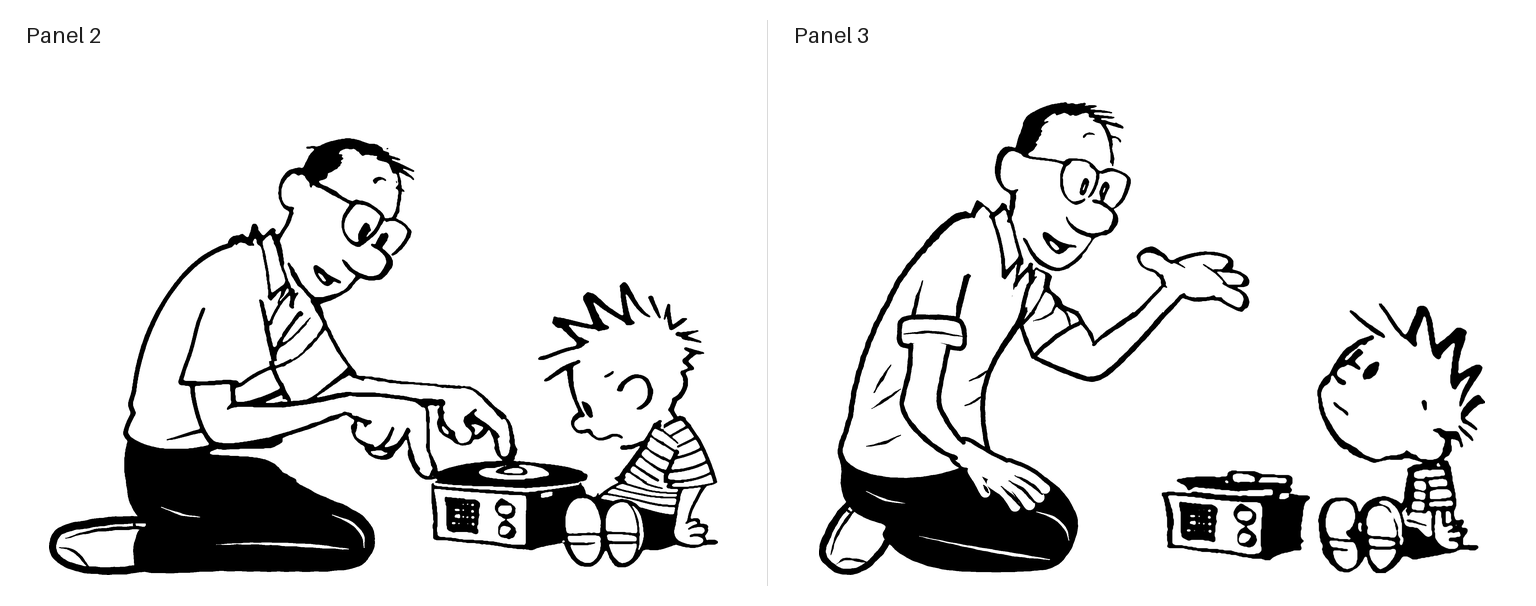
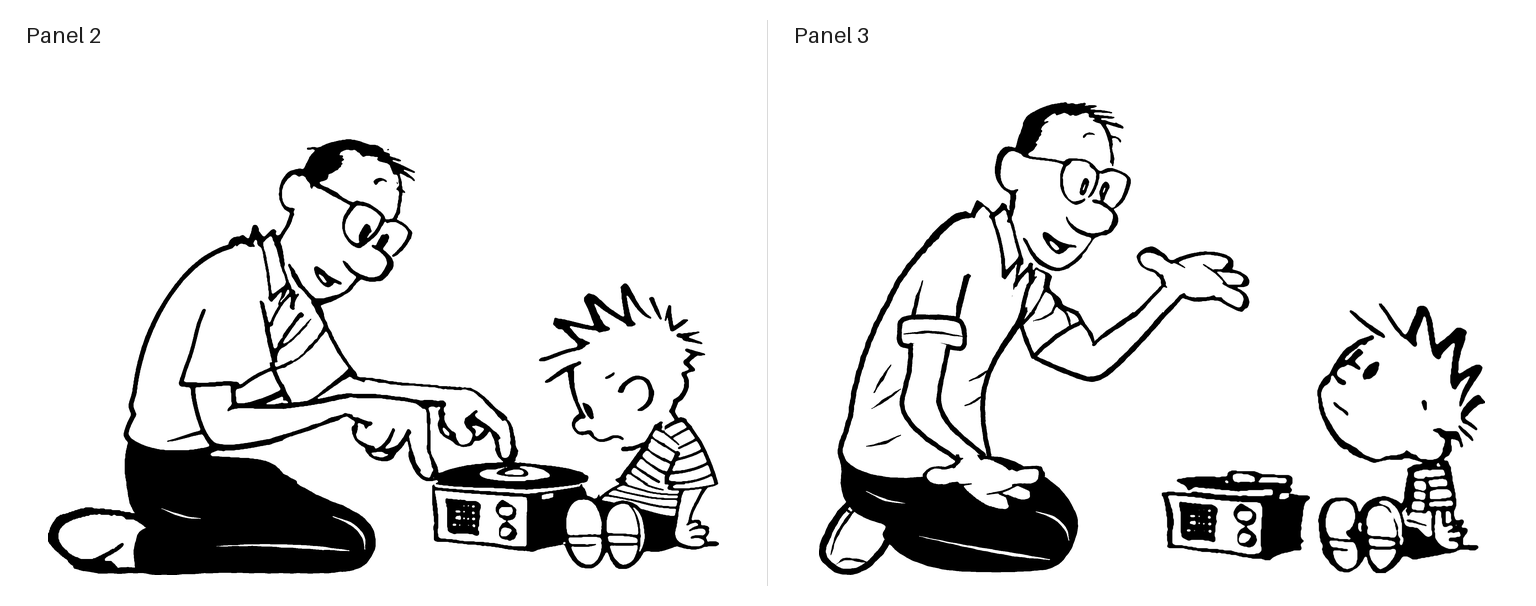
Reuse Watterson's own hand and shoe; fix the gap under Dad's arm
Panel 3's resting hand is now Dad's scanned gesturing hand from the same
panel (a four-fingered cartoon hand: thumb and three fingers), flipped
palm down and tilted onto his thigh, with the drawn forearm joined to
its wrist. Panel 2's trailing shoe is panel 1's planted shoe turned
upside down: toe back on the floor, sole up, heel under the cuff.
Both go through a general transplant() that moves a piece of scanned ink
to a new pose and fills its silhouette.

The earlier elbow repair had thickened the line under Dad's arm in
panel 2 into a wedge of black that read as stray trouser above a white
gap; thin_underarm() brings it back to the scan's weight.

diff --git a/panels.html b/panels.html
@@ -7,13 +7,13 @@
 <section id="panel-1"><h2>Panel 1</h2><p>Original central artwork with the existing completed left extension.</p>
 <p class="details">2834 × 2066 pixels · original-crop agreement: 100% · <a href="assets/full-panels/panel1.png?v=b03ae498a9" download="panel1.png">Download PNG</a> · <a href="assets/full-panels/panel1.png?v=b03ae498a9" target="_blank" rel="noopener">Open full size</a></p>
 <label><input class="show-source" type="checkbox"> Show original crop overlay</label>
-<div class="scroll"><div class="stage" style="--native-width:2834px"><img class="complete" src="assets/full-panels/panel1.png?v=b03ae498a9" width="2834" height="2066" alt="Completed comic panel 1 without dialogue" loading="lazy"><img class="source" src="assets/full-panels/original1.png" style="left:14.114326040931546%;top:0.0%;width:57.657021877205366%" width="1634" height="2066" alt="Original crop of panel 1" hidden></div></div></section><section id="panel-2"><h2>Panel 2</h2><p>Dad points to the record, sitting back on his heels. His trousers and trailing shoe are drawn in code (drawn_legs.py) after panel 1. The player uses the grille and knobs from panel 1.</p>
-<p class="details">3182 × 3660 pixels · original-crop agreement: 99.206% · <a href="assets/full-panels/panel2.png?v=0ca58c433f" download="panel2.png">Download PNG</a> · <a href="assets/full-panels/panel2.png?v=0ca58c433f" target="_blank" rel="noopener">Open full size</a></p>
+<div class="scroll"><div class="stage" style="--native-width:2834px"><img class="complete" src="assets/full-panels/panel1.png?v=b03ae498a9" width="2834" height="2066" alt="Completed comic panel 1 without dialogue" loading="lazy"><img class="source" src="assets/full-panels/original1.png" style="left:14.114326040931546%;top:0.0%;width:57.657021877205366%" width="1634" height="2066" alt="Original crop of panel 1" hidden></div></div></section><section id="panel-2"><h2>Panel 2</h2><p>Dad points to the record, sitting back on his heels. His trousers are drawn in code (drawn_legs.py); the trailing shoe is panel 1's planted shoe turned sole up. The player uses the grille and knobs from panel 1.</p>
+<p class="details">3182 × 3660 pixels · original-crop agreement: 99.251% · <a href="assets/full-panels/panel2.png?v=f43d609ae7" download="panel2.png">Download PNG</a> · <a href="assets/full-panels/panel2.png?v=f43d609ae7" target="_blank" rel="noopener">Open full size</a></p>
 <label><input class="show-source" type="checkbox"> Show original crop overlay</label>
-<div class="scroll"><div class="stage" style="--native-width:3182px"><img class="complete" src="assets/full-panels/panel2.png?v=0ca58c433f" width="3182" height="3660" alt="Completed comic panel 2 without dialogue" loading="lazy"><img class="source" src="assets/full-panels/original2.png" style="left:25.1414204902577%;top:0.0%;width:49.7171590194846%" width="1582" height="2060" alt="Original crop of panel 2" hidden></div></div></section><section id="panel-3"><h2>Panel 3</h2><p>Dad rests his hand on his thigh. Everything of him outside the scanned crop (back, shirt, sleeves, arms, hand, trousers and shoe) is drawn in code (drawn_legs.py). Calvin looks up at Dad with his feet still toward the player. His figure and the player come from panel 1, enlarged by 56% for this closer view.</p>
-<p class="details">3174 × 3660 pixels · original-crop agreement: 100% · <a href="assets/full-panels/panel3.png?v=d90685e566" download="panel3.png">Download PNG</a> · <a href="assets/full-panels/panel3.png?v=d90685e566" target="_blank" rel="noopener">Open full size</a></p>
+<div class="scroll"><div class="stage" style="--native-width:3182px"><img class="complete" src="assets/full-panels/panel2.png?v=f43d609ae7" width="3182" height="3660" alt="Completed comic panel 2 without dialogue" loading="lazy"><img class="source" src="assets/full-panels/original2.png" style="left:25.1414204902577%;top:0.0%;width:49.7171590194846%" width="1582" height="2060" alt="Original crop of panel 2" hidden></div></div></section><section id="panel-3"><h2>Panel 3</h2><p>Dad rests his hand on his thigh. Everything of him outside the scanned crop is drawn in code (drawn_legs.py); the resting hand is his scanned gesturing hand turned palm down. Calvin looks up at Dad with his feet still toward the player. His figure and the player come from panel 1, enlarged by 56% for this closer view.</p>
+<p class="details">3174 × 3660 pixels · original-crop agreement: 100% · <a href="assets/full-panels/panel3.png?v=e04a8ea2f8" download="panel3.png">Download PNG</a> · <a href="assets/full-panels/panel3.png?v=e04a8ea2f8" target="_blank" rel="noopener">Open full size</a></p>
 <label><input class="show-source" type="checkbox"> Show original crop overlay</label>
-<div class="scroll"><div class="stage" style="--native-width:3174px"><img class="complete" src="assets/full-panels/panel3.png?v=d90685e566" width="3174" height="3660" alt="Completed comic panel 3 without dialogue" loading="lazy"><img class="source" src="assets/full-panels/original3.png" style="left:25.20478890989288%;top:0.0%;width:49.59042218021424%" width="1574" height="2060" alt="Original crop of panel 3" hidden></div></div></section><section id="panel-4"><h2>Panel 4</h2><p>Original night scene with the existing completed left side of the bed.</p>
+<div class="scroll"><div class="stage" style="--native-width:3174px"><img class="complete" src="assets/full-panels/panel3.png?v=e04a8ea2f8" width="3174" height="3660" alt="Completed comic panel 3 without dialogue" loading="lazy"><img class="source" src="assets/full-panels/original3.png" style="left:25.20478890989288%;top:0.0%;width:49.59042218021424%" width="1574" height="2060" alt="Original crop of panel 3" hidden></div></div></section><section id="panel-4"><h2>Panel 4</h2><p>Original night scene with the existing completed left side of the bed.</p>
 <p class="details">2368 × 2042 pixels · original-crop agreement: 100% · <a href="assets/full-panels/panel4.png?v=4821633204" download="panel4.png">Download PNG</a> · <a href="assets/full-panels/panel4.png?v=4821633204" target="_blank" rel="noopener">Open full size</a></p>
 <label><input class="show-source" type="checkbox"> Show original crop overlay</label>
 <div class="scroll"><div class="stage" style="--native-width:2368px"><img class="complete" src="assets/full-panels/panel4.png?v=4821633204" width="2368" height="2042" alt="Completed comic panel 4 without dialogue" loading="lazy"><img class="source" src="assets/full-panels/original4.png" style="left:16.89189189189189%;top:0.0%;width:66.21621621621621%" width="1568" height="2042" alt="Original crop of panel 4" hidden></div></div></section><footer><p>The source comparisons use the cleaned, smoothed artwork extracted from page 247, with lettering and balloons removed. Panel 4’s signature remains a separate asset. Agreement percentages count every pixel in the original crop, including white background; panel 2 includes the earlier elbow repair. Panel 3 preserves every original ink pixel and directly reuses the original seated Calvin and record player.</p><p><a href="assets/full-panels/verification.json">Pixel comparison results</a> · <a href="assets/full-panels/provenance.json">Artwork sources and rebuild steps</a></p></footer></main>

diff --git a/tools/extensions/reconstruction-v2/drawn_legs.py b/tools/extensions/reconstruction-v2/drawn_legs.py
@@ -3,7 +3,10 @@
 The scan stops at Dad's waist in panel 2 and at his chest in panel 3, so
 everything of him beyond the crops is drawn here rather than generated:
 his legs and shoes in both, and in panel 3 also his back, shirt, sleeves,
-arms and the hand resting on his thigh. The drawing follows the
+arms and the hand resting on his thigh. Where Watterson drew the same
+thing elsewhere in the strip it is reused instead (see transplant): panel
+2's trailing shoe is panel 1's planted shoe turned sole up, and panel 3's
+resting hand is his own gesturing hand turned palm down. The drawing follows the
 strip itself: Dad's trousers are a flat black silhouette with a few thin
 white folds, as in panel 1, and his shoes are panel 1's white shoes with a
 heavy outline, a sole line just inside it and a small heel notch. Sizes come
@@ -54,13 +57,50 @@ def shoe(ink, heel, angle, scale=1.0, flip=False, foreshorten=1.0, width=22):
     ink.stroke(parts['toe_cap'], [3, 11, 10, 2])
 
 
+def thin_underarm(image):
+    """Bring the line under Dad's arm in panel 2 back to the scan's weight.
+
+    The earlier elbow repair (upper-2.png) thickened the arm's underside
+    into a wedge of black that read as a stray bit of trouser above a gap.
+    In the scan the line is about 20px; keep that much of it, from its top.
+    """
+    a = np.asarray(image).copy()
+    for x in range(UNDERARM[0], UNDERARM[1]):
+        column = a[UNDERARM[2]:UNDERARM[3], x] < 128
+        top = np.argmax(column)
+        if not column[top]:
+            continue
+        end = top + np.argmin(column[top:]) if not column[top:].all() else len(column)
+        # Taper into the shirt's hem at the left, where the gap closes.
+        weight = 21 + max(0, 790 - x) * 0.9
+        if end - top > weight and end < len(column):
+            a[UNDERARM[2] + top + int(weight):UNDERARM[2] + end + 2, x] = 255
+    from PIL import Image, ImageFilter
+    # Smooth the new edge as the rest of the art is smoothed.
+    result = Image.fromarray(a)
+    box = (UNDERARM[0] - 4, UNDERARM[2], UNDERARM[1] + 4, UNDERARM[3])
+    edge = result.crop(box).filter(ImageFilter.GaussianBlur(2))
+    edge = edge.point(lambda v: 0 if v < 100 else 255 if v > 156 else int((v - 100) * 255 / 56))
+    result.paste(edge, box[:2])
+    return result
+
+
+# Columns and rows of the underarm line in the panel 2 export.
+UNDERARM = (730, 1000, 1880, 1960)
+PANEL2_SHOE = (300, 2256)
+PANEL2_SHOE_TURN = 180
+PANEL2_SHOE_SCALE = (1.7, 1.7)
+
+
 def panel_two(image):
     """Dad sits on his heels facing right, knee by the record player."""
     w, h = image.size
     ink = Ink((w, h), seed=2)
     # His near foot lies behind him on its upper, toe back on the floor and
     # sole turned up, heel under his seat. The far foot is hidden behind it.
-    shoe(ink, heel=(600, 2270), angle=176, scale=0.86, flip=True)
+    shoe_ink, shoe_shape = panel_one_shoe(PANEL2_SHOE, PANEL2_SHOE_TURN, PANEL2_SHOE_SCALE, (w, h))
+    ink.paint(shoe_shape, 255)
+    ink.paint(shoe_ink, 0)
     # The trousers: seat, thigh and the shin folded under it along the floor,
     # ending in a cuff at the ankle just behind the seat. The first and last
     # three points are the scanned silhouette's edges on the crop's last
@@ -80,7 +120,7 @@ def panel_two(image):
                [2, 8, 2], colour=255, wobble=0.6)
     yy, xx = np.mgrid[:h, :w]
     region = (yy >= 2060) & (xx < 1540)
-    return composite(image, ink.mask(), region)
+    return composite(thin_underarm(image), ink.mask(), region)
 
 
 def outlined(ink, points, width=OUTLINE + 2):
@@ -89,32 +129,101 @@ def outlined(ink, points, width=OUTLINE + 2):
     ink.stroke(points, [width, width * 1.1, width * 0.95, width * 1.15, width], closed=True)
 
 
-HAND = [  # (centre line, width): back of the hand, then far to near fingers
-    ([(965, 2640), (1050, 2690), (1130, 2730)], 96),
-    ([(1150, 2700), (1230, 2735), (1300, 2790)], 40),
-    ([(1135, 2722), (1215, 2762), (1275, 2825)], 44),
-    ([(1110, 2745), (1185, 2790), (1235, 2855)], 46),
-    ([(1080, 2765), (1140, 2810), (1175, 2862)], 44),
-    ([(1000, 2715), (1030, 2765), (1052, 2805)], 42),
-]
+# The scanned gesturing hand in panel 3: its bounding box and the wrist, where
+# the two lines of the forearm reach the thumb (A) and the palm (B).
+SCAN_HAND_BOX = (1585, 1770, 2200, 2080)
+SCAN_WRIST = ((1745, 1950), (1875, 2005))
 
 
-def hand_outline(ink):
-    for points, width in HAND:
-        ink.stroke(points, [width + 2 * OUTLINE], wobble=1.0)
+def transplant(source, keep, closing, pivot, target, angle, flip=False,
+               scale=(1.0, 1.0), axis=0.0, size=None):
+    """Move a piece of Watterson's own ink to a new place and pose.
+
+    `keep` is a polygon around the piece in `source`, `closing` a list of
+    segments that close its outline where `keep` cuts it off (so its inside
+    can be filled). The piece is optionally flipped top to bottom about
+    `pivot`, scaled by `scale` along and across the direction `axis`
+    (degrees), turned by `angle` degrees and moved so `pivot` lands on
+    `target`. Returns its ink and filled silhouette as masks of `size`, and
+    the function mapping source points to their new places.
+    """
+    from PIL import Image, ImageDraw
+    from scipy import ndimage
+    mask = Image.new('L', source.size, 0)
+    ImageDraw.Draw(mask).polygon(keep, fill=255)
+    ink = (np.asarray(source.convert('L')) < 128) & (np.asarray(mask) > 0)
+    closed = Image.fromarray(ink)
+    for segment in closing:
+        ImageDraw.Draw(closed).line(segment, fill=1, width=14)
+    silhouette = ndimage.binary_fill_holes(np.asarray(closed))
+    def turn(degrees):
+        t = np.radians(degrees)
+        return np.array([[np.cos(t), -np.sin(t)], [np.sin(t), np.cos(t)]])
+    stretch = turn(axis) @ np.diag(scale) @ turn(-axis)
+    forward = turn(angle) @ stretch @ np.diag([1, -1 if flip else 1])
+    inverse = np.linalg.inv(forward)
+    pivot, target = np.asarray(pivot, float), np.asarray(target, float)
+    w, h = size
+    xs, ys = zip(*keep)
+    reach = max(np.hypot(x - pivot[0], y - pivot[1]) for x, y in keep) * max(scale) + 10
+    yy, xx = np.mgrid[max(0, int(target[1] - reach)):min(h, int(target[1] + reach)),
+                      max(0, int(target[0] - reach)):min(w, int(target[0] + reach))]
+    src = inverse @ np.stack([xx.ravel() - target[0], yy.ravel() - target[1]]) + pivot[:, None]
+    out = []
+    for layer in (ink, silhouette):
+        sampled = ndimage.map_coordinates(layer.astype(float), [src[1], src[0]], order=1, cval=0)
+        full = np.zeros((h, w), bool)
+        full[yy.ravel(), xx.ravel()] = sampled > 0.5
+        out.append(full)
+    return out[0], out[1], lambda point: tuple(forward @ (np.asarray(point) - pivot) + target)
 
 
-def hand_fill(ink):
-    for points, width in HAND:
-        ink.stroke(points, [width], colour=255, wobble=0.6)
+def resting_hand(image, target, angle):
+    """Panel 3's scanned open hand, turned palm down to rest on the thigh.
+
+    The hand is flipped top to bottom about its wrist, which turns the palm
+    over and puts the thumb on the near side, then tilted by `angle` degrees
+    so the fingers follow the thigh down towards the knee, with the wrist's
+    midpoint at `target`. Returns the hand's ink and silhouette, and where
+    the wrist's thumb and palm ends land.
+    """
+    x0, y0, x1, y1 = SCAN_HAND_BOX
+    a, b = SCAN_WRIST
+    # Only the hand: the side of the wrist away from the elbow.
+    keep = [(x0, y0), (x1, y0), (x1, y1), (b[0] + 80, b[1] + 60), b, a, (x0, a[1])]
+    middle = ((a[0] + b[0]) / 2, (a[1] + b[1]) / 2)
+    ink, shape, move = transplant(image, keep, [(a, b)], middle, target, angle,
+                                  flip=True, size=image.size)
+    return ink, shape, move(a), move(b)
 
 
-def hand_gaps(ink):
-    for gap in ([(1175, 2735), (1240, 2770), (1288, 2812)],
-                [(1150, 2757), (1210, 2795), (1255, 2846)],
-                [(1118, 2780), (1162, 2820), (1200, 2862)],
-                [(1045, 2775), (1065, 2805)]):
-        ink.stroke(gap, [3, 12, 14, 6])
+# Dad's planted back shoe in panel 1, in side view, in the coordinates of
+# the full panel 1 export. Only the part inside the scanned crop (x >= 400)
+# is used; the trouser leg covers its top at the heel, so `keep` stops just
+# under the trouser's hem.
+PANEL1_SHOE_KEEP = [(400, 1872), (520, 1866), (670, 1866), (670, 2016), (400, 2016)]
+PANEL1_SHOE_CLOSE = [((400, 1872), (400, 2016)), ((400, 1874), (520, 1868))]
+PANEL1_SHOE_CENTRE = (530, 1940)
+PANEL1_SHOE_HIDDEN_TOP = [(380, 1874), (450, 1871), (520, 1872), (560, 1880)]
+
+
+def panel_one_shoe(target, angle, scale, size):
+    """Panel 1's planted shoe, turned over to lie behind Dad, sole up."""
+    from pathlib import Path
+    from PIL import Image
+    locked = Image.open(Path(__file__).resolve().parent / 'locked-1.png').convert('L')
+    source = Image.new('L', (locked.width + 400, locked.height), 255)
+    source.paste(locked, (400, 0))
+    ink, shape, move = transplant(source, PANEL1_SHOE_KEEP, PANEL1_SHOE_CLOSE,
+                                  PANEL1_SHOE_CENTRE, target, angle, scale=scale, size=size)
+    # Ink the top of the shoe where panel 1's trouser hem hid it.
+    edge = Ink(size, seed=5)
+    edge.stroke([move(p) for p in PANEL1_SHOE_HIDDEN_TOP], [18, 22, 22, 20])
+    return ink | edge.mask(), shape
+
+
+HAND_WRIST = (975, 2648)
+HAND_TILT = 24
 
 
 def panel_three(image):
@@ -202,17 +311,21 @@ def panel_three(image):
     ink.stroke([(716, 2150), (830, 2142), (956, 2160)], [3, 11, 10, 3])
     # The near arm hangs from the cuff, bends a little at the elbow and
     # reaches forward to the thigh.
+    hand_ink, hand_shape, thumb_end, palm_end = resting_hand(image, HAND_WRIST, HAND_TILT)
     left = [(745, 2196), (738, 2300), (714, 2400), (708, 2445), (734, 2506),
-            (800, 2580), (880, 2640), (930, 2662)]
+            (800, 2574), thumb_end,
+            tuple(np.add(thumb_end, np.subtract(thumb_end, (800, 2574)) * 0.3))]
     right = [(900, 2202), (880, 2300), (864, 2380), (862, 2440), (898, 2516),
-             (946, 2582), (962, 2598)]
-    hand_outline(ink)
-    ink.fill(left + [(960, 2700), (1010, 2690)] + right[::-1], colour=255, wobble=0)
-    hand_fill(ink)
-    ink.stroke(left, [19, 20, 19, 20, 18])
-    ink.stroke(right, [19, 19, 20, 18])
-    hand_gaps(ink)
+             (950, 2570), palm_end]
+    ink.fill(left + right[::-1], colour=255, wobble=0)
+    # The forearm's edges go over the hand's wrist so the two join.
+    edges = Ink((w, h), seed=4)
+    edges.stroke(left, [19, 20, 19, 20, 18])
+    edges.stroke(right, [19, 19, 20, 18])
 
     yy, xx = np.mgrid[:h, :w]
     region = ((xx < 800) | (yy >= 2060)) & (xx < 1900) & ~((xx >= 1700) & (yy >= 2600))
-    return composite(image, ink.mask(), region)
+    drawing = ink.mask()
+    drawing[hand_shape] = False
+    drawing |= hand_ink | edges.mask()
+    return composite(image, drawing, region)

diff --git a/tests/test_full_panel_artwork.py b/tests/test_full_panel_artwork.py
@@ -7,6 +7,7 @@ from PIL import Image, ImageOps
 
 ROOT = Path(__file__).resolve().parents[1]
 OUT = ROOT / 'assets/full-panels'
+UNDERARM = (730, 1000, 1880, 1960)  # as in drawn_legs.UNDERARM
 
 
 def test_original_overlaps_and_panel2_repair_are_preserved():
@@ -24,8 +25,13 @@ def test_original_overlaps_and_panel2_repair_are_preserved():
             assert np.mean(overlap == source) > 0.99
             # The prior elbow repair is retained; generation cannot redraw
             # the existing head, arms, expression or the visible record.
-            approved = Image.open(ROOT / 'tools/extensions/reconstruction-v2/upper-2.png')
-            assert np.array_equal(np.asarray(image.crop((400, 0, 3182, 2060))), np.asarray(approved))
+            # Only the line under the arm is thinned back to the scan's weight.
+            approved = np.asarray(Image.open(ROOT / 'tools/extensions/reconstruction-v2/upper-2.png')).copy()
+            actual = np.asarray(image.crop((400, 0, 3182, 2060))).copy()
+            x0, x1, y0, y1 = UNDERARM
+            for a in (approved, actual):
+                a[y0:y1, x0 - 4 - 400:x1 + 4 - 400] = 0
+            assert np.array_equal(actual, approved)
 
 
 def test_panel3_reuses_the_scanned_child_and_player_at_closeup_scale():
@@ -69,4 +75,16 @@ def test_dads_kneeling_legs_are_the_programmatic_drawing():
     # each crop are exactly what drawn_legs.py draws.
     for number, draw in ((2, drawn_legs.panel_two), (3, drawn_legs.panel_three)):
         image = Image.open(OUT / f'panel{number}.png').convert('L')
-        assert np.array_equal(np.asarray(draw(image)), np.asarray(image))
+        redrawn, original = np.asarray(draw(image)), np.asarray(image)
+        if number == 2:
+            redrawn, original = redrawn[2060:], original[2060:]
+        assert np.array_equal(redrawn, original)
+
+
+def test_line_under_dads_arm_in_panel2_has_the_scans_weight():
+    image = np.asarray(Image.open(OUT / 'panel2.png')) < 128
+    x0, x1, y0, y1 = UNDERARM
+    for x in range(800, x1 - 10):
+        column = image[y0:y1, x]
+        top = np.argmax(column)
+        assert np.argmin(column[top:]) <= 26

diff --git a/tools/extensions/reconstruction-v2/build_review.py b/tools/extensions/reconstruction-v2/build_review.py
@@ -10,7 +10,7 @@ for r in records:
     n=r['panel'];w,h=r['size'];x,y=r['originalOffset'];ow,oh=r['originalSize']
     digest=hashlib.sha256((OUT/f'panel{n}.png').read_bytes()).hexdigest()[:10]
     match=f"{100*r['originalMatchFraction']:.3f}".rstrip('0').rstrip('.')
-    note={1:'Original central artwork with the existing completed left extension.',2:'Dad points to the record, sitting back on his heels. His trousers and trailing shoe are drawn in code (drawn_legs.py) after panel 1. The player uses the grille and knobs from panel 1.',3:'Dad rests his hand on his thigh. Everything of him outside the scanned crop (back, shirt, sleeves, arms, hand, trousers and shoe) is drawn in code (drawn_legs.py). Calvin looks up at Dad with his feet still toward the player. His figure and the player come from panel 1, enlarged by 56% for this closer view.',4:'Original night scene with the existing completed left side of the bed.'}[n]
+    note={1:'Original central artwork with the existing completed left extension.',2:'Dad points to the record, sitting back on his heels. His trousers are drawn in code (drawn_legs.py); the trailing shoe is panel 1\'s planted shoe turned sole up. The player uses the grille and knobs from panel 1.',3:'Dad rests his hand on his thigh. Everything of him outside the scanned crop is drawn in code (drawn_legs.py); the resting hand is his scanned gesturing hand turned palm down. Calvin looks up at Dad with his feet still toward the player. His figure and the player come from panel 1, enlarged by 56% for this closer view.',4:'Original night scene with the existing completed left side of the bed.'}[n]
     parts.append(f'''<section id="panel-{n}"><h2>Panel {n}</h2><p>{note}</p>
 <p class="details">{w} × {h} pixels · original-crop agreement: {match}% · <a href="assets/full-panels/panel{n}.png?v={digest}" download="panel{n}.png">Download PNG</a> · <a href="assets/full-panels/panel{n}.png?v={digest}" target="_blank" rel="noopener">Open full size</a></p>
 <label><input class="show-source" type="checkbox"> Show original crop overlay</label>

diff --git a/tools/extensions/reconstruction-v2/ink.py b/tools/extensions/reconstruction-v2/ink.py
@@ -112,6 +112,11 @@ class Ink:
                     self.pen.ellipse((x - r, y - r, x + r, y + r), fill=colour)
         return curve
 
+    def paint(self, mask, colour):
+        """Set the pixels of a boolean mask (at the canvas size) to a colour."""
+        big = Image.fromarray(mask).resize(self.image.size, Image.Resampling.NEAREST)
+        self.image.paste(colour, mask=big.convert('L').point(lambda v: 255 if v else 0))
+
     def mask(self):
         """The drawing as a boolean ink mask at the canvas size."""
         small = self.image.resize(self.size, Image.Resampling.BOX)
